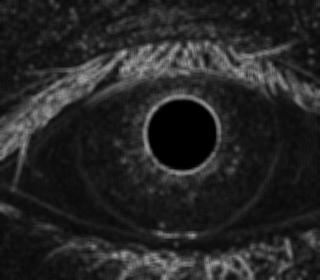
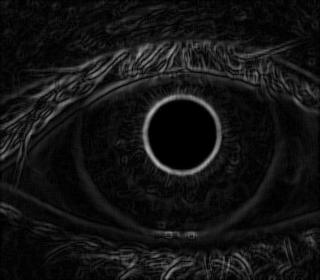
Added median filter using buffer

diff --git a/HW2.py b/HW2.py
@@ -58,13 +58,37 @@ out = cv2.filter2D(img, -1, laplacian_weights)
 laplacian_autumn = Image.fromarray(out)
 laplacian_autumn.save("LaplacianAutumn.jpg")
 
+# median filter
+#Pad image with copy of bordering pixels,
+ #   iterate through and find median of neighborhood
+padded = cv2.copyMakeBorder(
+    img, 1, 1, 1, 1, cv2.BORDER_REFLECT, None)
+width = len(padded) - 1
+length = len(padded[0]) - 1
+pix = [0]*9
+for i in range(1,width):
+    for j in range(1,length):
+        pix[0] = padded[i-1][j-1]
+        pix[1] = padded[i][j-1]
+        pix[2] = padded[i+1][j-1]
+        pix[3] = padded[i-1][j]
+        pix[4] = padded[i][j]
+        pix[5] = padded[i+1][j]
+        pix[6] = padded[i-1][j+1]
+        pix[7] = padded[i][j+1]
+        pix[8] = padded[i+1][j+1]
+        img[i-1][j-1] = sorted(pix)[4]
+median_autumn = Image.fromarray(img)
+median_autumn.save("median_autumn.jpg")
+
 # iris processing
-iris = cv2.imread( "iris.bmp", 0)
-out_not_x = cv2.filter2D(iris,-1, sobelx_weights * (-1))
-out_x = cv2.filter2D(iris,-1, sobelx_weights)
-out_not_y = cv2.filter2D(iris,-1, sobely_weights * (-1))
-out_y = cv2.filter2D(iris,-1, sobely_weights)
-filtered = out_x + out_not_x + out_y + out_not_y
-processed = cv2.filter2D(filtered, -1, average_weights)
-processed_iris = Image.fromarray(processed, 'L')
+iris = cv2.imread("iris.bmp", 0)
+blurred = cv2.filter2D(iris, -1, average_weights)
+out_not_x = cv2.filter2D(blurred,-1, sobelx_weights * (-1))
+out_x = cv2.filter2D(blurred,-1, sobelx_weights)
+out_not_y = cv2.filter2D(blurred,-1, sobely_weights * (-1))
+out_y = cv2.filter2D(blurred,-1, sobely_weights)
+filtered = out_x + out_y + out_not_y + out_not_x
+#wasted_var, processed = cv2.threshold(filtered, 10, 10, cv2.THRESH_OTSU)
+processed_iris = Image.fromarray(filtered, 'L')
 processed_iris.save("ProcessedIris.jpg")
